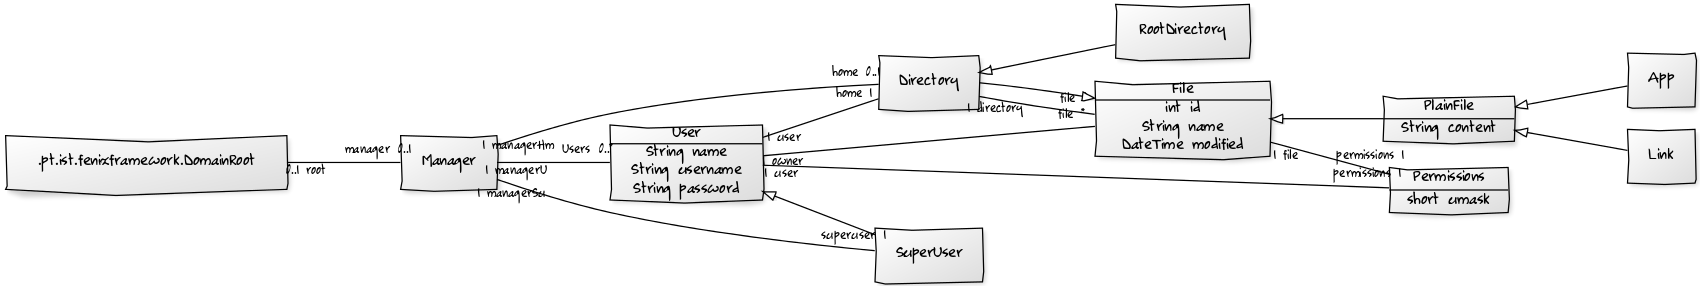
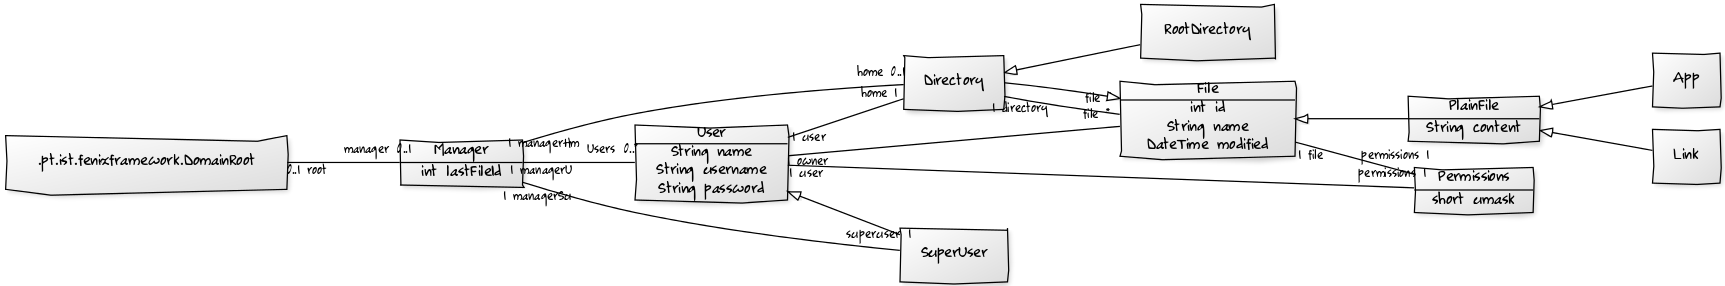
Implement Unique Id to all Files close #18

diff --git a/src/main/java/pt/tecnico/myDrive/domain/Link.java b/src/main/java/pt/tecnico/myDrive/domain/Link.java
@@ -14,12 +14,15 @@ public class Link extends Link_Base {
 
   /**Alternate constructor to create a Link with a path
    * @param name (Java Primitive) which represents the name of the file.
-   * @param  file (File) which represents a file
+   * @param file (File) which represents a file
    * @param path (Java Primitive) which represents the path of the link.
+   * @param m (Manager) which represents the Manager
    */
-  public Link(String name, File file, String path){
+  public Link(String name, File file, String path, Manager m){
     super();
-    setId(1);
+    int id = m.getLastFileId();
+    setId(id+1);
+    m.setLastFileId(id+1);
     setName(name);
     setModified(new DateTime(DateTimeZone.UTC));
     setPermissions(new Permissions(file.getPermissions().getUmask()));    

diff --git a/src/main/java/pt/tecnico/myDrive/domain/Manager.java b/src/main/java/pt/tecnico/myDrive/domain/Manager.java
@@ -16,10 +16,10 @@ public class Manager extends Manager_Base{
     static final Logger log = LogManager.getRootLogger();
     
     protected Manager() {
+    	setLastFileId(0);
         SuperUser su = new SuperUser();
         RootDirectory rootDir = new RootDirectory(su,"/",this);
-
-        Directory home = new Directory(su, "home", new Link ("..", rootDir, "/"),this);
+        Directory home = new Directory(su, "home", new Link ("..", rootDir, "/", this),this);
         su.setHome(home,this);
         home.addFile(su.getHome());
         setSuperuser(su);

diff --git a/src/main/java/pt/tecnico/myDrive/domain/File.java b/src/main/java/pt/tecnico/myDrive/domain/File.java
@@ -55,7 +55,9 @@ public class File extends File_Base implements IElementXml {
      * @param name  String (Primary java type) which represents the name of File.
      */
     protected void init (User owner, String name, Manager m) {
-        setId(1);
+    	int id = m.getLastFileId();
+        setId(id+1);
+        m.setLastFileId(id+1);
         setName(name);
         setModified(new DateTime(DateTimeZone.UTC));
         setPermissions(new Permissions(owner.getPermissions().getUmask()));

diff --git a/src/main/java/pt/tecnico/myDrive/domain/User.java b/src/main/java/pt/tecnico/myDrive/domain/User.java
@@ -48,7 +48,7 @@ public class User extends User_Base {
         setPassword(password);
         setPermissions(new Permissions(umask));
         // Manager.log.trace(Manager.getInstance().getHome());
-        setHome(new Directory(this, username, new Link ("..", m.getDirHome(),"/home/" + username),m));
+        setHome(new Directory(this, username, new Link ("..", m.getDirHome(),"/home/" + username, m),m));
     }
 	
 	/**

diff --git a/src/main/java/pt/tecnico/myDrive/domain/Directory.java b/src/main/java/pt/tecnico/myDrive/domain/Directory.java
@@ -26,7 +26,7 @@ public class Directory extends Directory_Base {
         super.init(owner, name, m);
         //setParent(parent);
         addFile(parent);
-        addFile(new Link (".", this, parent.getContent() + "/" + name));
+        addFile(new Link (".", this, parent.getContent() + "/" + name, m));
         //addFile(this);
     }
 

diff --git a/src/main/java/pt/tecnico/myDrive/domain/SuperUser.java b/src/main/java/pt/tecnico/myDrive/domain/SuperUser.java
@@ -31,6 +31,6 @@ public class SuperUser extends SuperUser_Base {
 	}
 
 	public void setHome(Directory managerHome, Manager m) {		
-    super.setHome(new Directory(this, getUsername(), new Link ("..", managerHome,"/home"),m));
+    super.setHome(new Directory(this, getUsername(), new Link ("..", managerHome,"/home",m),m));
     }
 }

diff --git a/src/main/java/pt/tecnico/myDrive/domain/RootDirectory.java b/src/main/java/pt/tecnico/myDrive/domain/RootDirectory.java
@@ -24,7 +24,7 @@ public class RootDirectory extends RootDirectory_Base {
         super.nameRegex = "[^\0]*";
         super.init(owner, name, m);
         //setParent(parent);
-        addFile(new Link ("..", this, "/"));
+        addFile(new Link ("..", this, "/", m));
     }
     
 }
